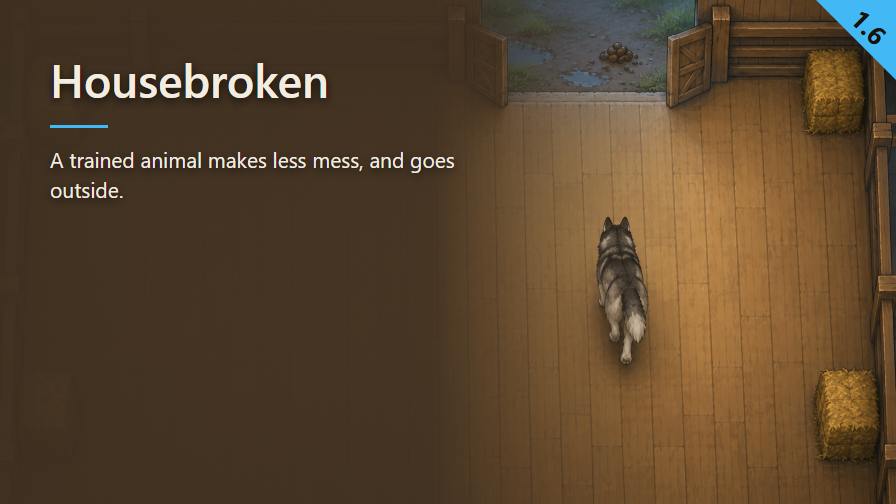
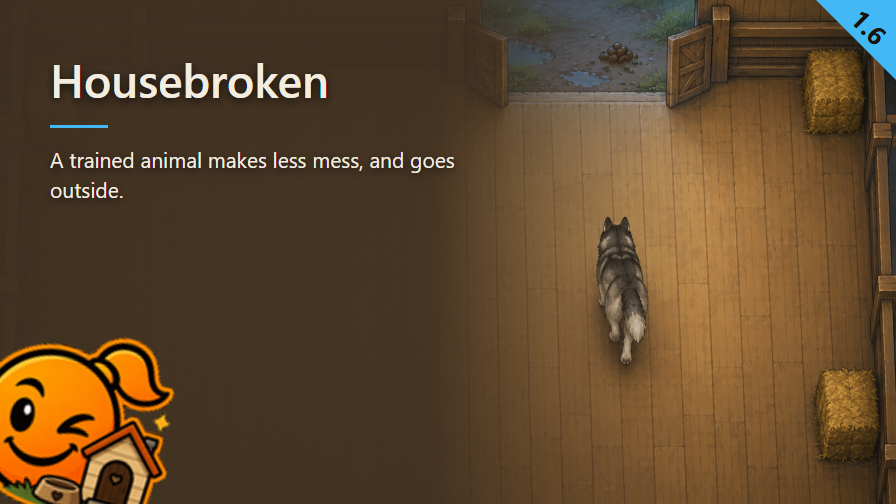
Housebroken: gallery image 0 (plain Preview copy) and a ModIcon corner badge on Preview.png
Per the owner's 2026-09-29 instructions: Art/Gallery/0-preview.png is a plain copy of the prior
Preview.png; Mod/About/Preview.png itself now carries ModIcon.png, cut out of its background and
tilted +15 degrees, tucked and clipped into the bottom-left corner (the emptiest one).

Changed region(s): [[0.0, 0.6548, 0.2188, 1.0]]

diff --git a/PUBLICATION.md b/PUBLICATION.md
@@ -14,7 +14,7 @@ Steam creates every item private, and nothing here changes that: the owner switc
 | Stage | `done` (`STATUS.md`). TF-15 to TF-22 passed under Pickle 2026-09-25/26; `tested` gate not yet certified, see `STATUS.md` |
 | Version | the item was created as `0.1.0`; the owner decided the next upload publishes `1.0.0` (repository and `About.xml` both say 1.0.0 now) |
 | Workflow | `publish-tag.yml` generated under `.github/` (2026-09-27) |
-| Gallery | no image exists (see below) |
+| Gallery | image 0 = `Art/Gallery/0-preview.png` (added 2026-09-29); the rest is the owner's to decide (see below) |
 | Thanks comments | drafted below; nothing posted, and nothing can be until the item is public |
 
 ## Publishing by CI
@@ -53,17 +53,26 @@ commit and a tag at each good version are still kept for reference.
 
 ## Screenshots, in this order
 
-**No gallery image exists yet, and the order is the owner's to decide.** Steam shows the first one large under the Preview, so the
-most demonstrative goes there rather than the prettiest. What the suite can produce headlessly, and what it cannot:
+**Image 0 is `Art/Gallery/0-preview.png`** (owner's instruction, 2026-09-29): a plain copy of `Mod/About/Preview.png` as it
+stood before the corner badge below, so the header image and the first gallery slide are not the same file once that badge
+is added. Steam shows this first image large under the Preview, so the order after it stays the owner's to decide. What
+the suite can produce headlessly, and what it cannot:
 
 | Candidate | Source | State |
 | --- | --- | --- |
+| 0: Preview, without the corner badge | `Art/Gallery/0-preview.png`, a plain copy | added 2026-09-29 |
 | The settings page, English | `32-language-review.feature`, screenshot mode | played in English on 2026-09-22 (`03-language`), opened and legible; not played at 100 and 200 percent yet |
 | The settings page, French | same, `-Language French` | played on 2026-09-22, opened, accents and slider labels legible |
 | The stat explanation of a trained animal, inside and outside | a dedicated capture scenario on the test yard | not written |
 | A trained animal beside an untrained one in the same room | a dedicated capture scenario | not written |
 
 The gallery itself is a manual step on the Steam page: no library the CI uses can send more than the header image.
+
+**`Mod/About/Preview.png` now carries a corner badge** (owner's instruction, 2026-09-29): `Mod/About/ModIcon.png`, cut out
+of its near-black background (flood fill from the border) and tilted +15°, tucked into the bottom-left corner — the
+emptiest one, since the dog scene fills the right side and a hay bale already sits bottom-right — clipped by the frame on
+its left and bottom edges as if it were poking out of it. Built with the global `sharp` CLI package; the cutout
+intermediate is not kept.
 
 ## Dependencies and DLCs
 
